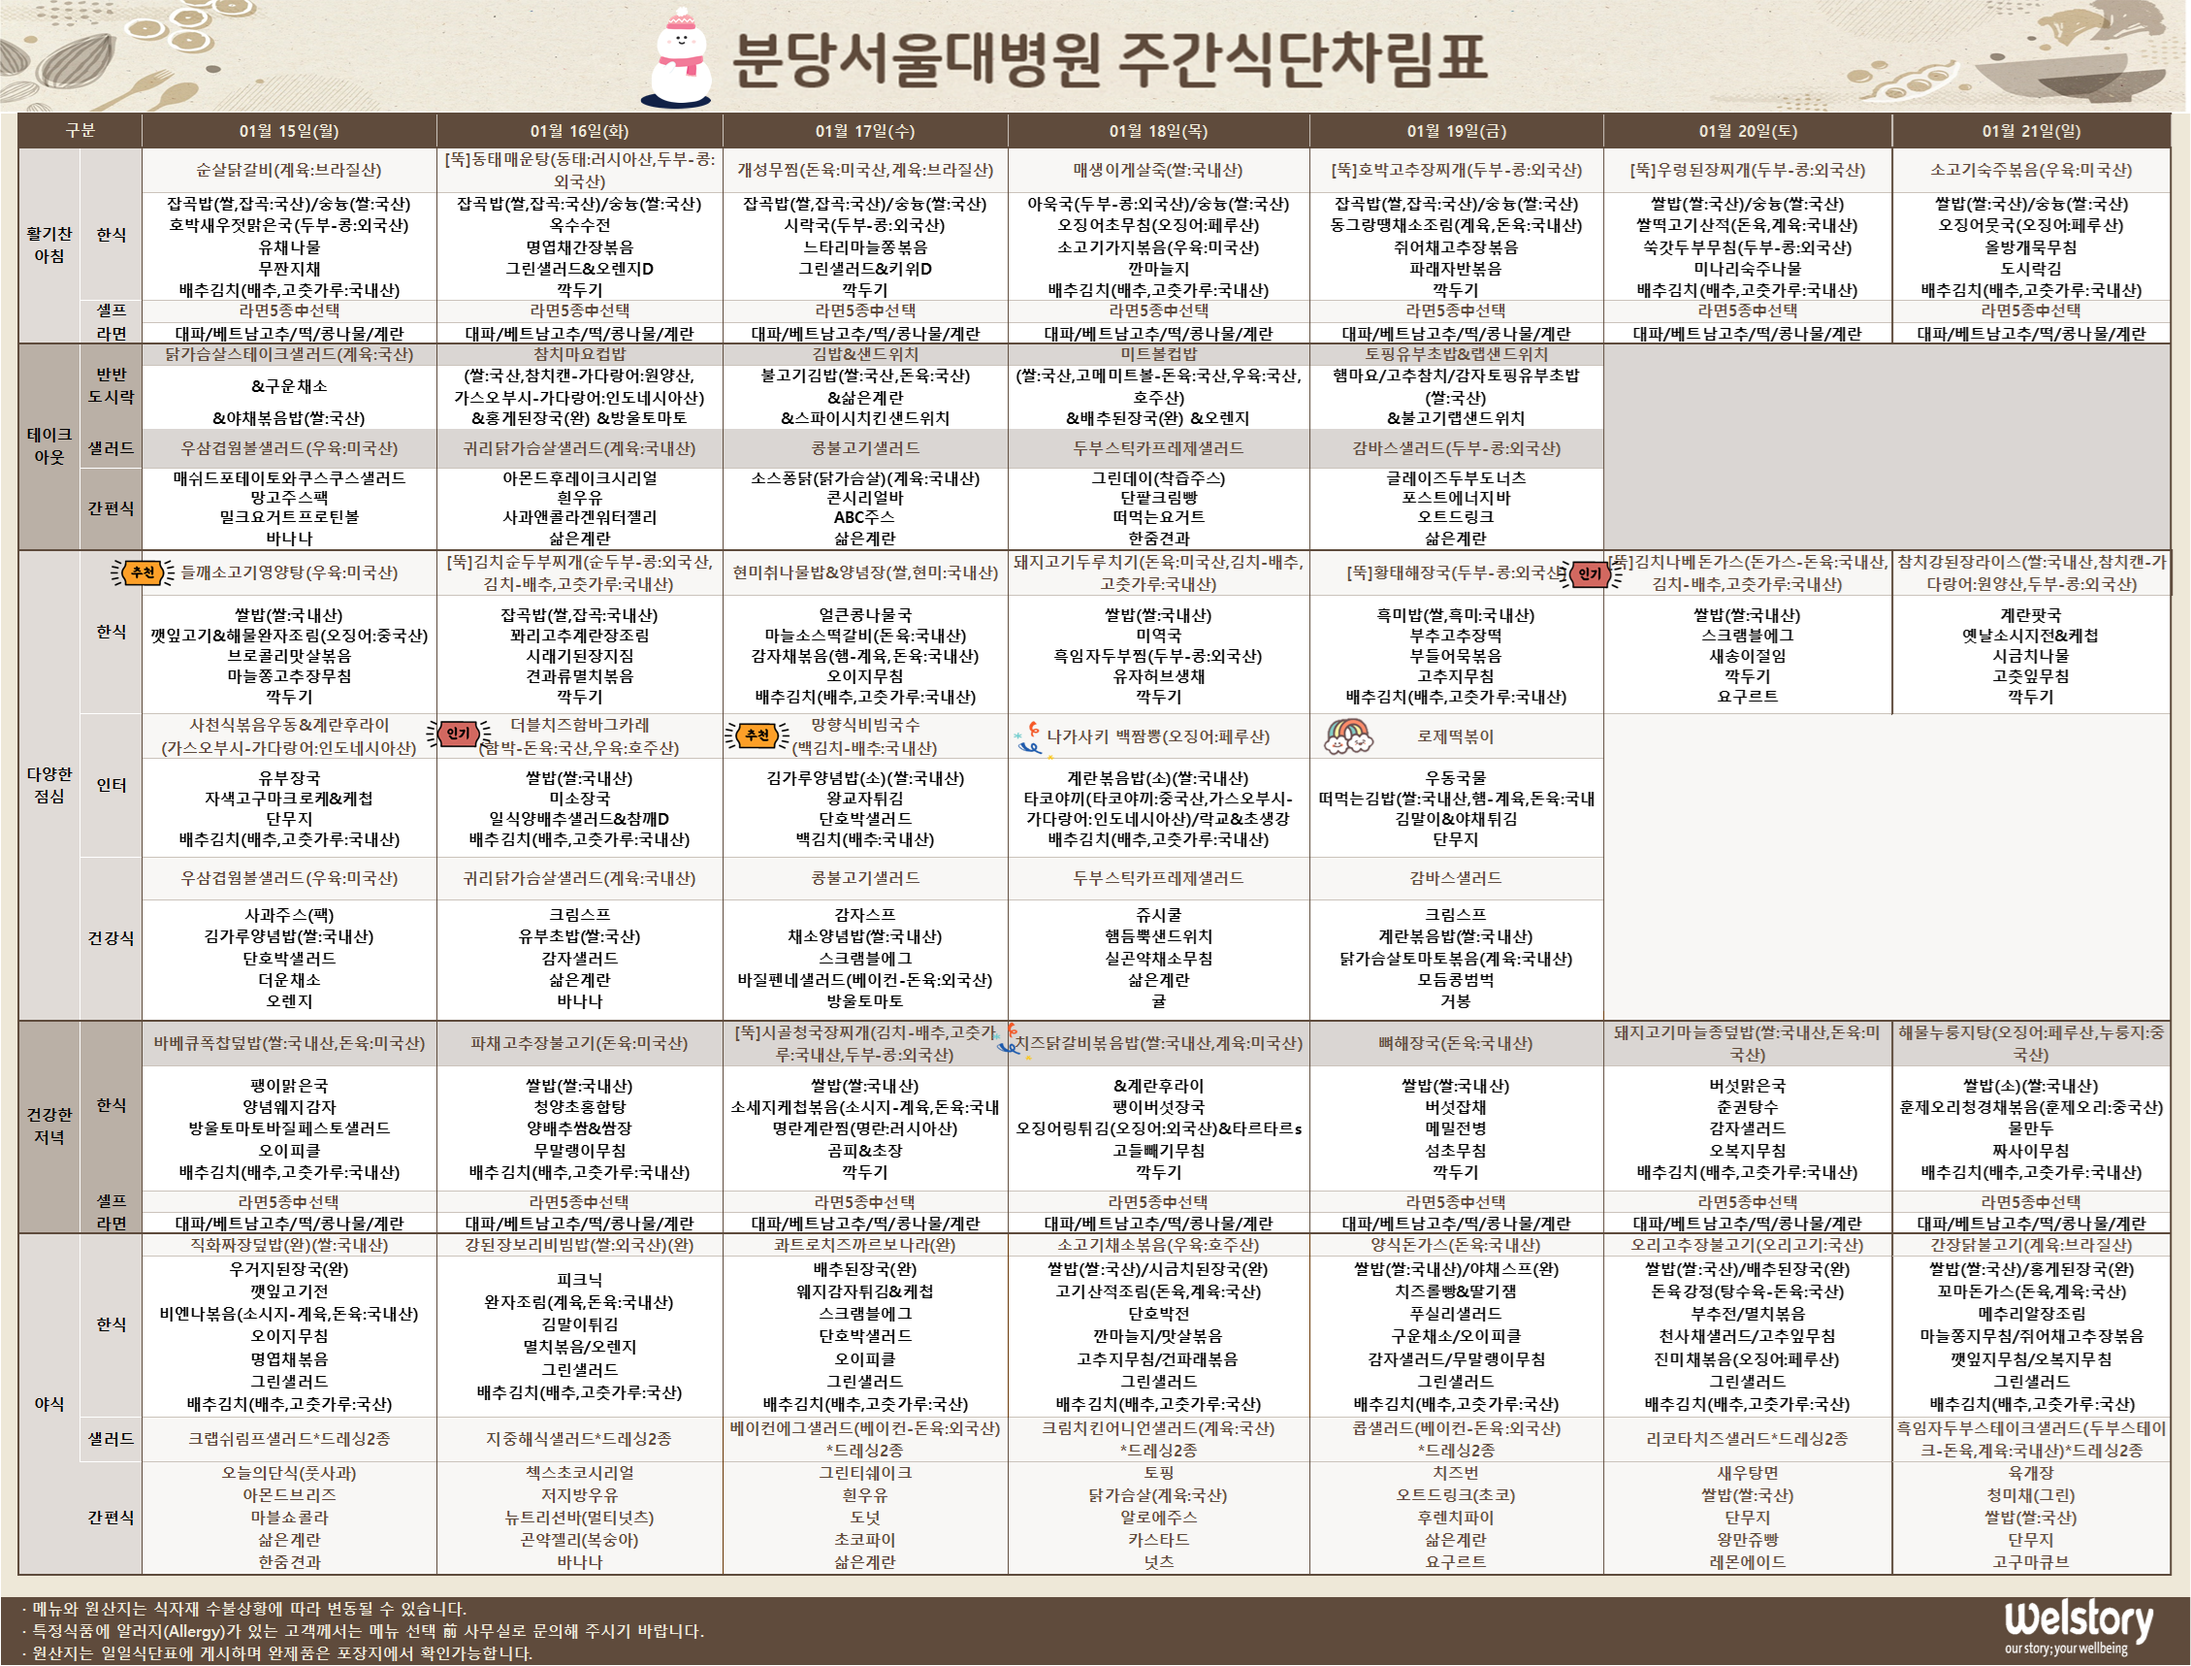
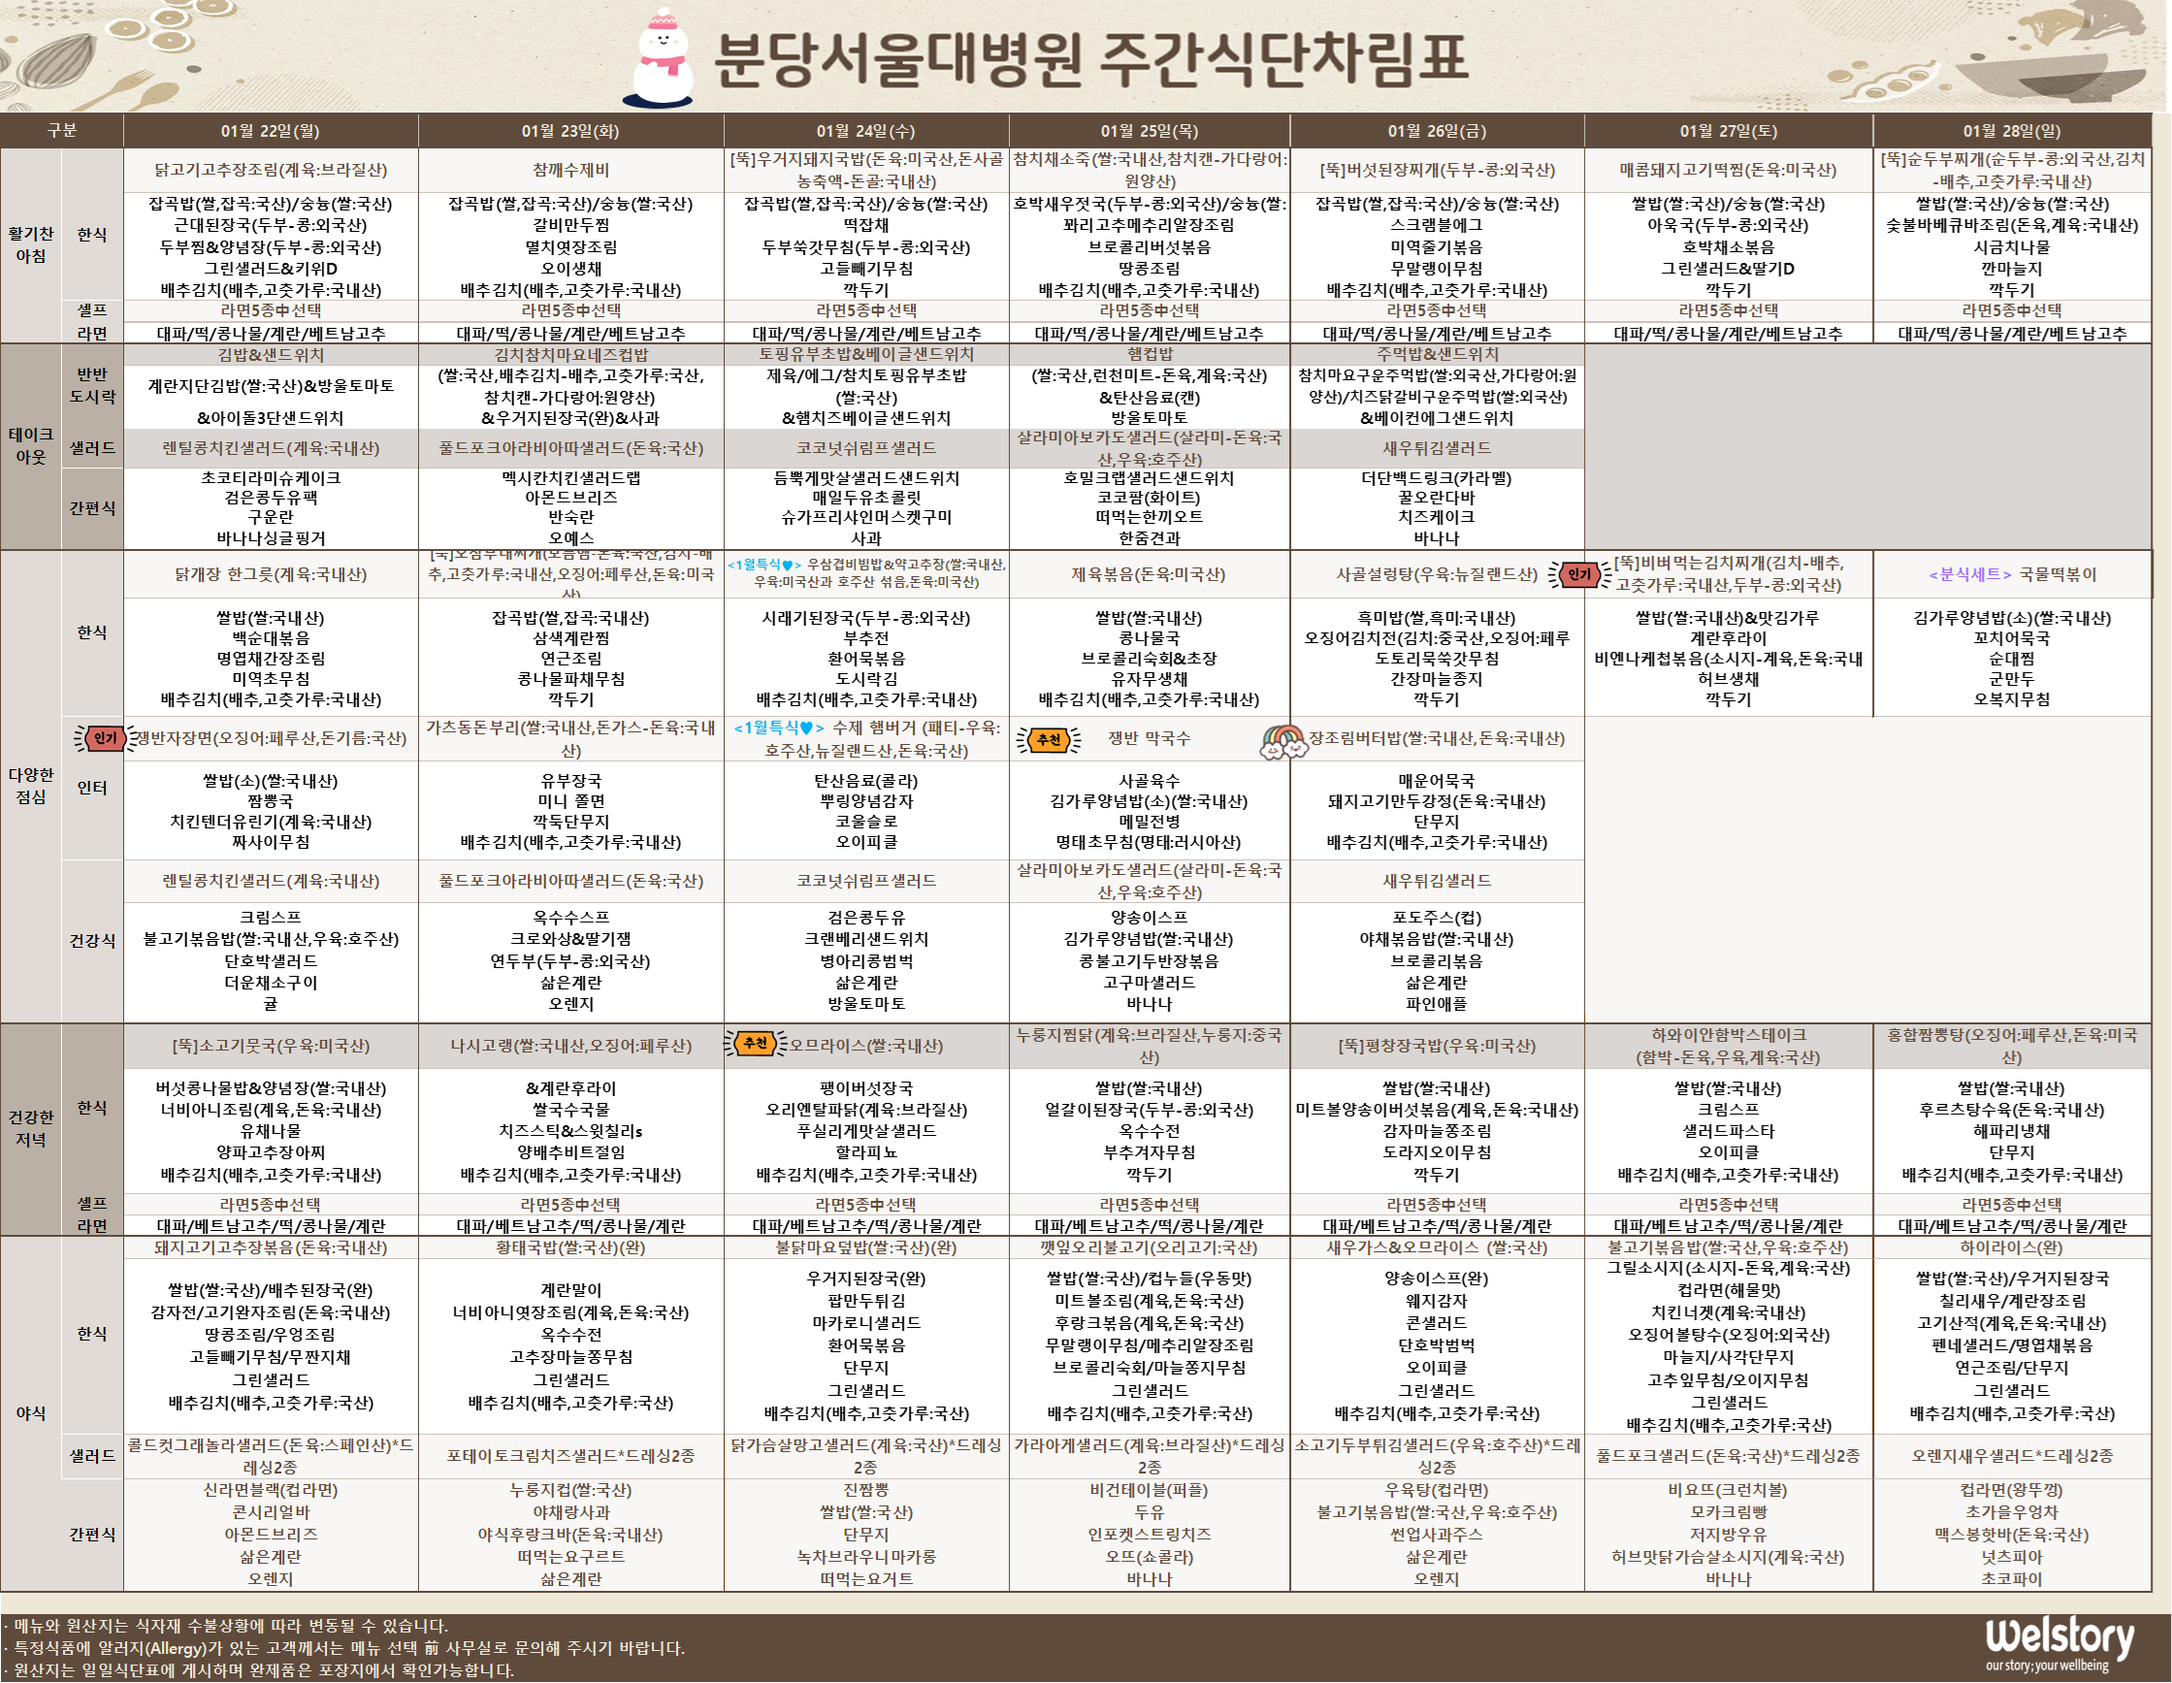
Add files via upload

Changed region(s): [[0.0, 0.0, 0.9862, 1.0], [0.9245, 0.0, 0.9553, 0.0309]]

diff --git a/6/index.html b/6/index.html
@@ -12,16 +12,12 @@
 <h2> 메뉴 업데이트는 주인장 여유가 되면 합니다. (이미지 확대해서 보세요) <br> </h2>
 
 <br>
-<h1> 1월 3주차 </h1>
+<h1> 1월 4주차 </h1>
 <img src="수술.png" width="100%">
 <br>
 
-<br>
-<h1> 1월 2주차 </h1>
-<img src="수술_1.png" width="100%">
-<br>
 
-<h6> Last update 2024/01/12  </h6>  
+<h6> Last update 2024/01/22  </h6>  
 <h1 >맛있게 드세요.  </h1> 
 
 </body>

diff --git a/1/index.html b/1/index.html
@@ -13,17 +13,13 @@
 
 
 <br>
-<h1> 1월 3주차  </h1>
+<h1> 1월 4주차  </h1>
 <img src="1동.png" width="100%">
 <br>
 
-<br>
-<h1> 1월 2주차  </h1>
-<img src="1동_1.png" width="100%">
-<br>
 
 
-<h6> Last update 2024/01/12  </h6>  
+<h6> Last update 2024/01/22  </h6>  
 <h1 >맛있게 드세요.  </h1> 
 
 </body>

diff --git a/2/index.html b/2/index.html
@@ -14,16 +14,12 @@
 
 
 <br>
-<h1> 1월 3주차  </h1>
+<h1> 1월 4주차  </h1>
 <img src="HIP.png" width="100%">
 <br>
 
-<br>
-<h1> 1월 2주차  </h1>
-<img src="HIP_1.png" width="100%">
-<br>
 
-<h6> Last update 2024/01/12  </h6>  
+<h6> Last update 2024/01/22  </h6>  
 <h1 >맛있게 드세요.  </h1> 
 
 </body>
